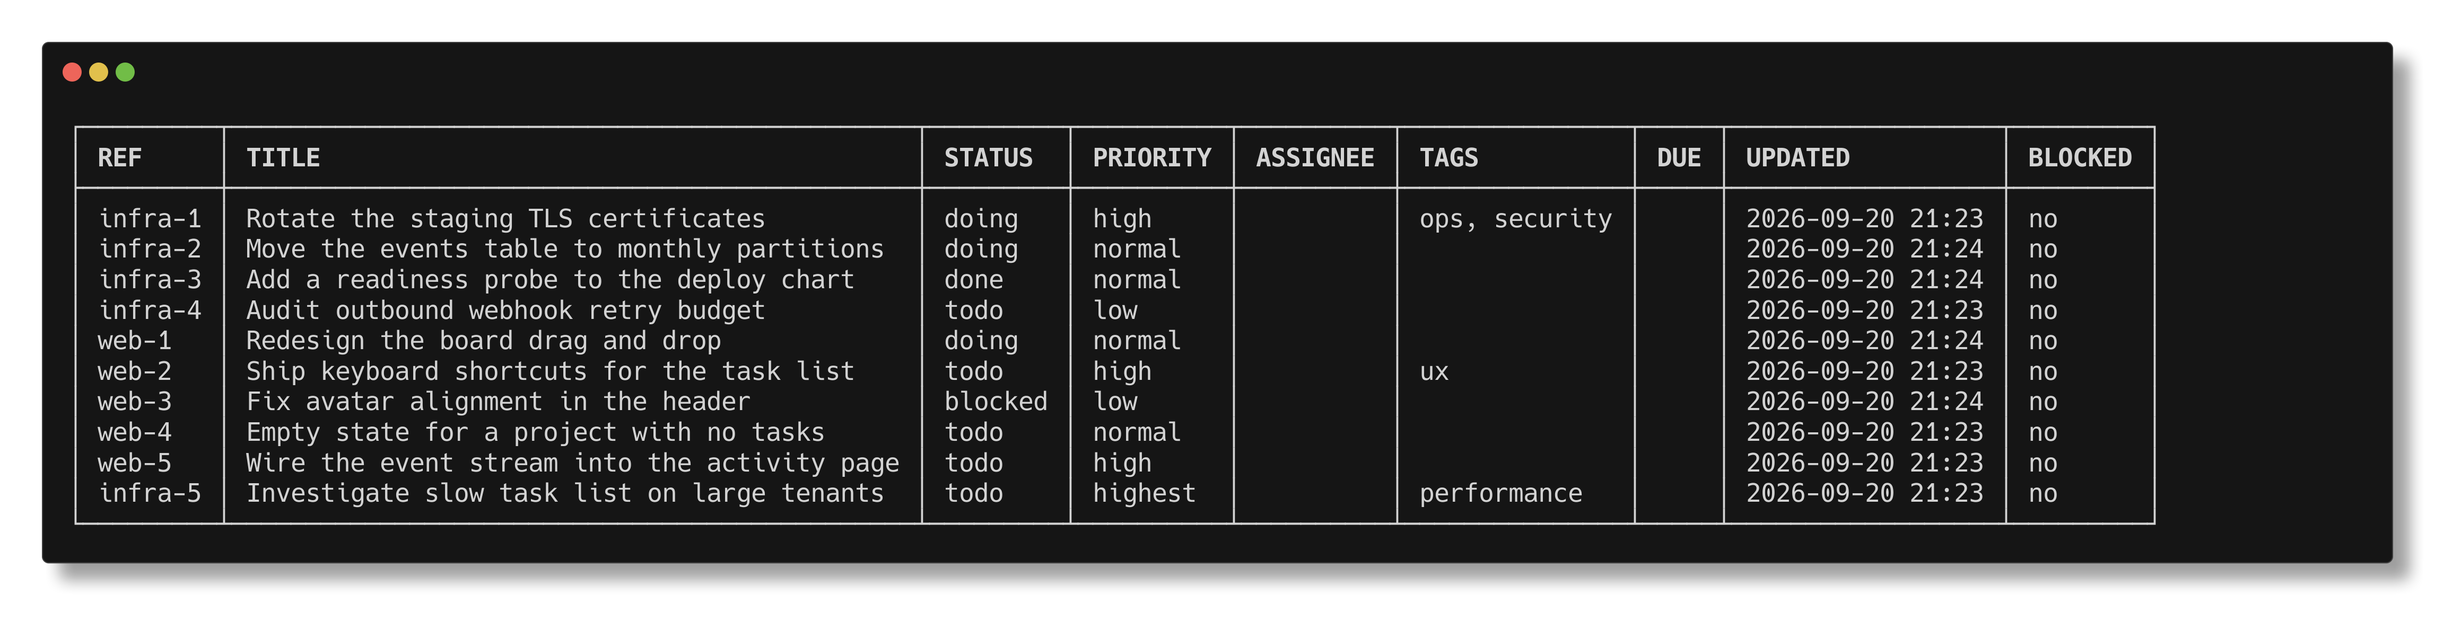
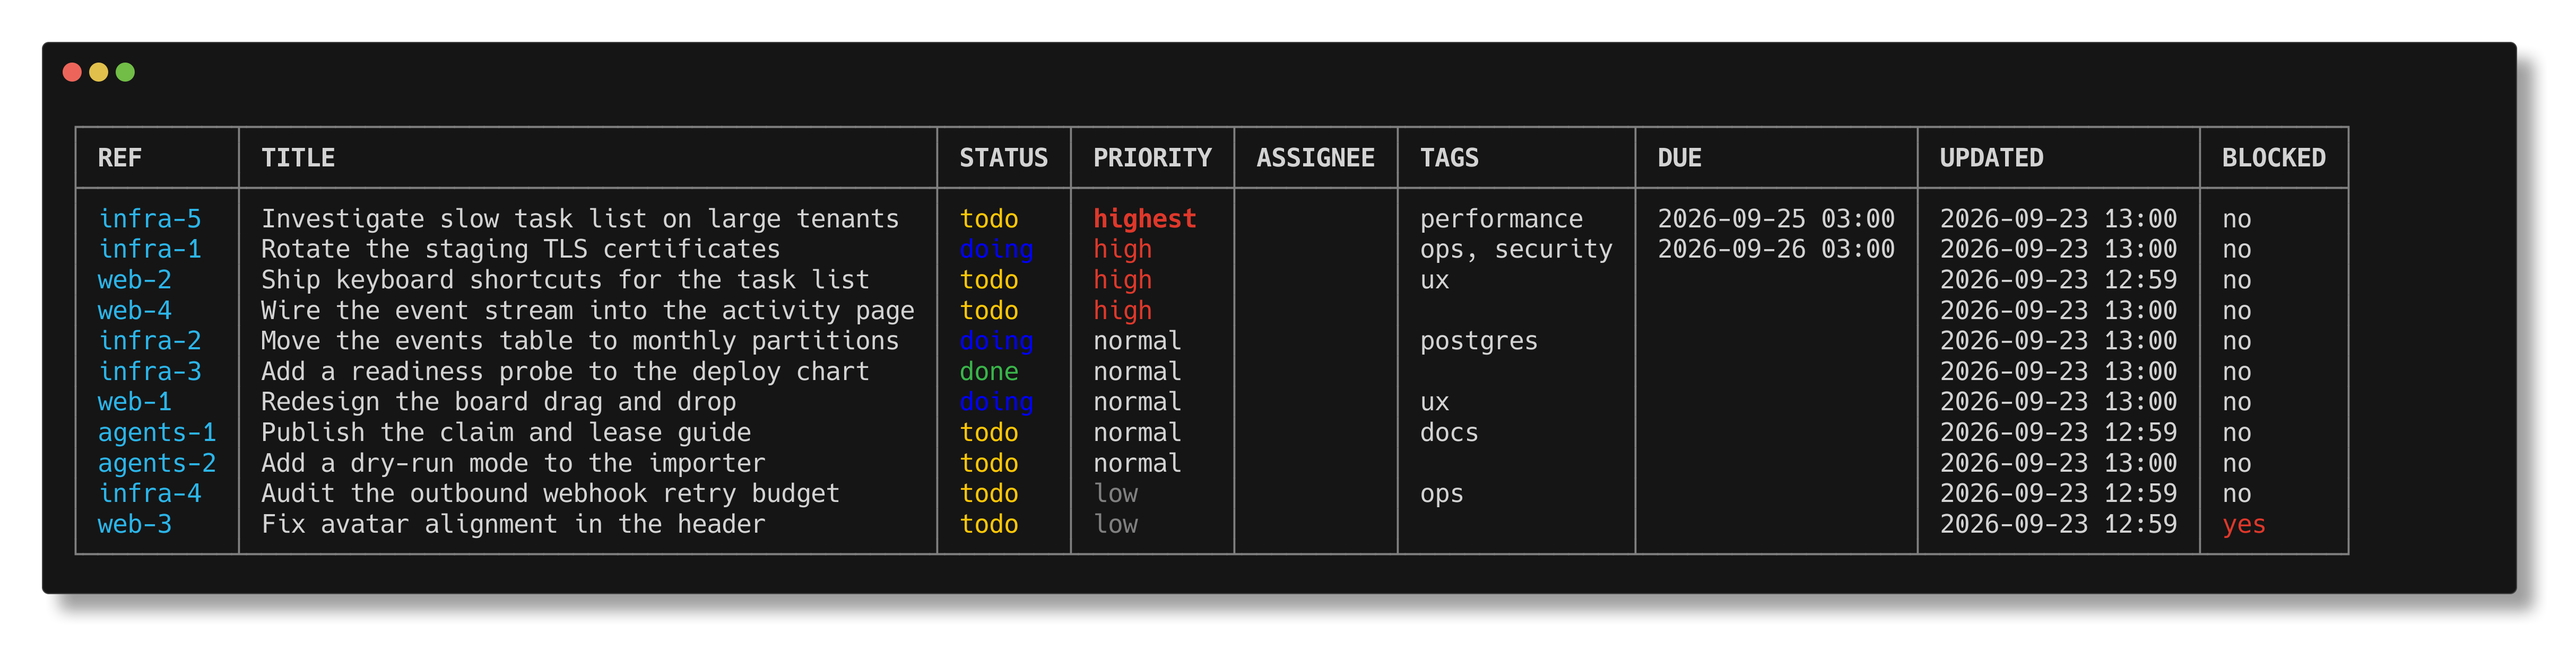
docs: retake the screenshots against what the product actually does now
The images were pinned at 8f4a282. Since then internal/tui was rebuilt
outright, internal/web took thirteen commits including a real board and a
settings page, and internal/output took seven including a new default sort and
configurable dates. The sharpest one: 5289cd5 is the commit that stopped the
interface calling the same thing two names, and the old browser images were
taken before it, so the README was showing a sidebar reading "Lists" next to a
heading reading "Projects" -- the exact inconsistency that commit removed.

The new set has three projects with colours and icons, tasks with tags, due
dates, a blocked one and one held by an agent, so the columns that were empty
before now show what they are for. The CLI images are in colour, which has
been the default since 4440ced and was not visible in any of them.

Assignees are left unset, and that is a product limitation rather than a
staging choice. internal/output/table.go prints AssigneeActorID raw, so a
populated column is five rows of 26-character identifiers. The browser resolves
names for the same field. Fixing the terminal side needs a way to look actors
up in bulk, which core.Service does not have, so it is a change to the frozen
contract and a capability entry rather than something to slip into a
screenshot commit.

screenshots/README.md now records how these were actually made, including the
two traps: tix writes a terminal background-colour query to stdout in a pty,
[…]

diff --git a/screenshots/README.md b/screenshots/README.md
@@ -15,6 +15,28 @@ Captured against a seeded demo database on the commit that added them.
 The browser images use the dark scheme. The interface also offers light and a
 low contrast scheme, chosen per browser from the sidebar.
 
-Regenerating them needs a seeded database and a running `tix serve`; the
-terminal images were produced with `termshot`, the browser images with Chrome
-at a device pixel ratio of 2.
+## Regenerating them
+
+Seed a database somewhere disposable, never the one you actually use, and point
+`TIX_DATABASE_DSN` at it so the commands read as a reader would type them.
+
+The three CLI images come from `termshot`, rendered with `--columns` set to the
+width of the output rather than the default, which otherwise wraps a wide table
+into something that looks broken.
+
+Two things make the terminal awkward to capture, and both cost an afternoon to
+find:
+
+`tix` writes an OSC 11 background-colour query and a cursor-position report to
+stdout when it starts in a pty, and `termshot` panics parsing them. Strip
+`\e]11;?\e\\` and `\e[6n`, along with any reply the terminal sends back, before
+rendering.
+
+The board is not a `termshot` image. Its font has no box-drawing or emoji
+glyphs, so the column frames break into dashes and the project icon and the
+`✓` become tofu. That image is a tmux `capture-pane -e` frame, converted with
+`aha`, and photographed in Chrome with DejaVu Sans Mono plus Noto Color Emoji
+at a line height tight enough for the box characters to join up.
+
+The browser images are Chrome at a device pixel ratio of 2 against a running
+`tix serve`, signed in as a seeded user.
